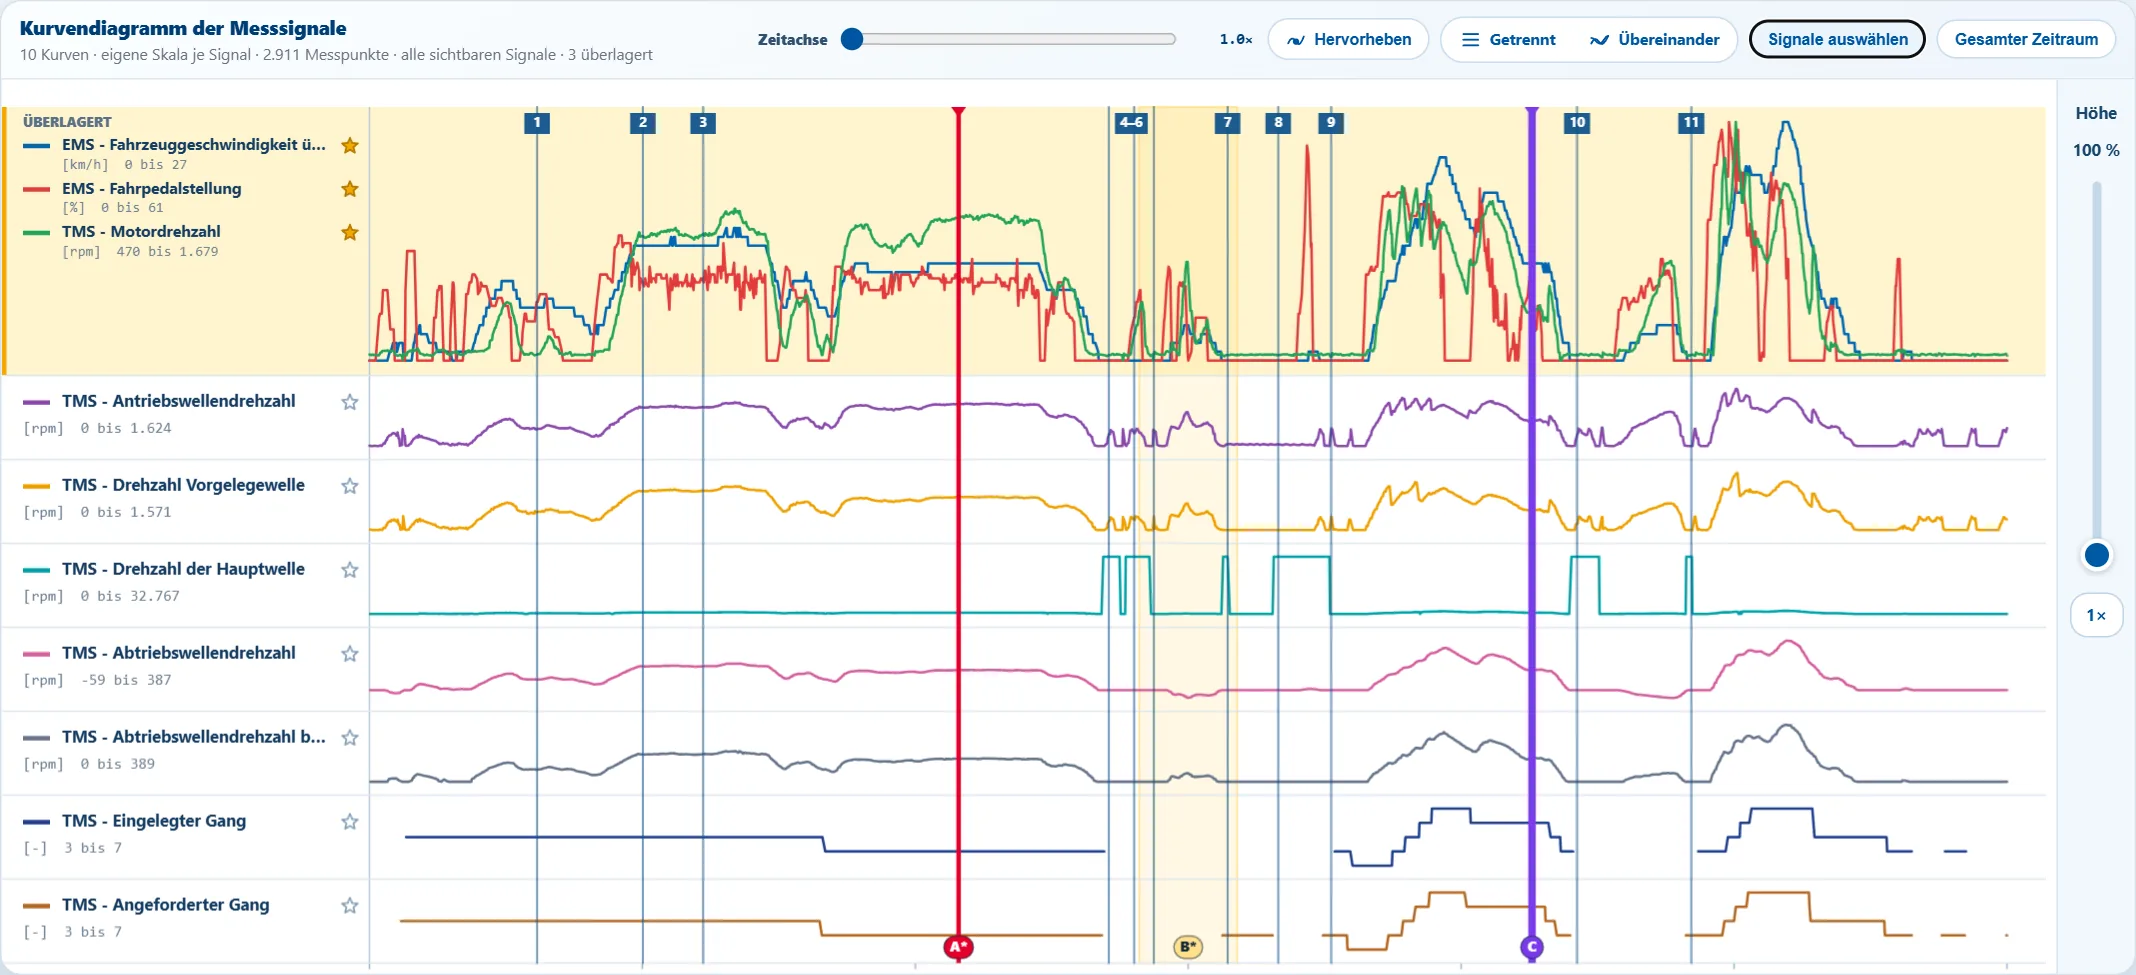
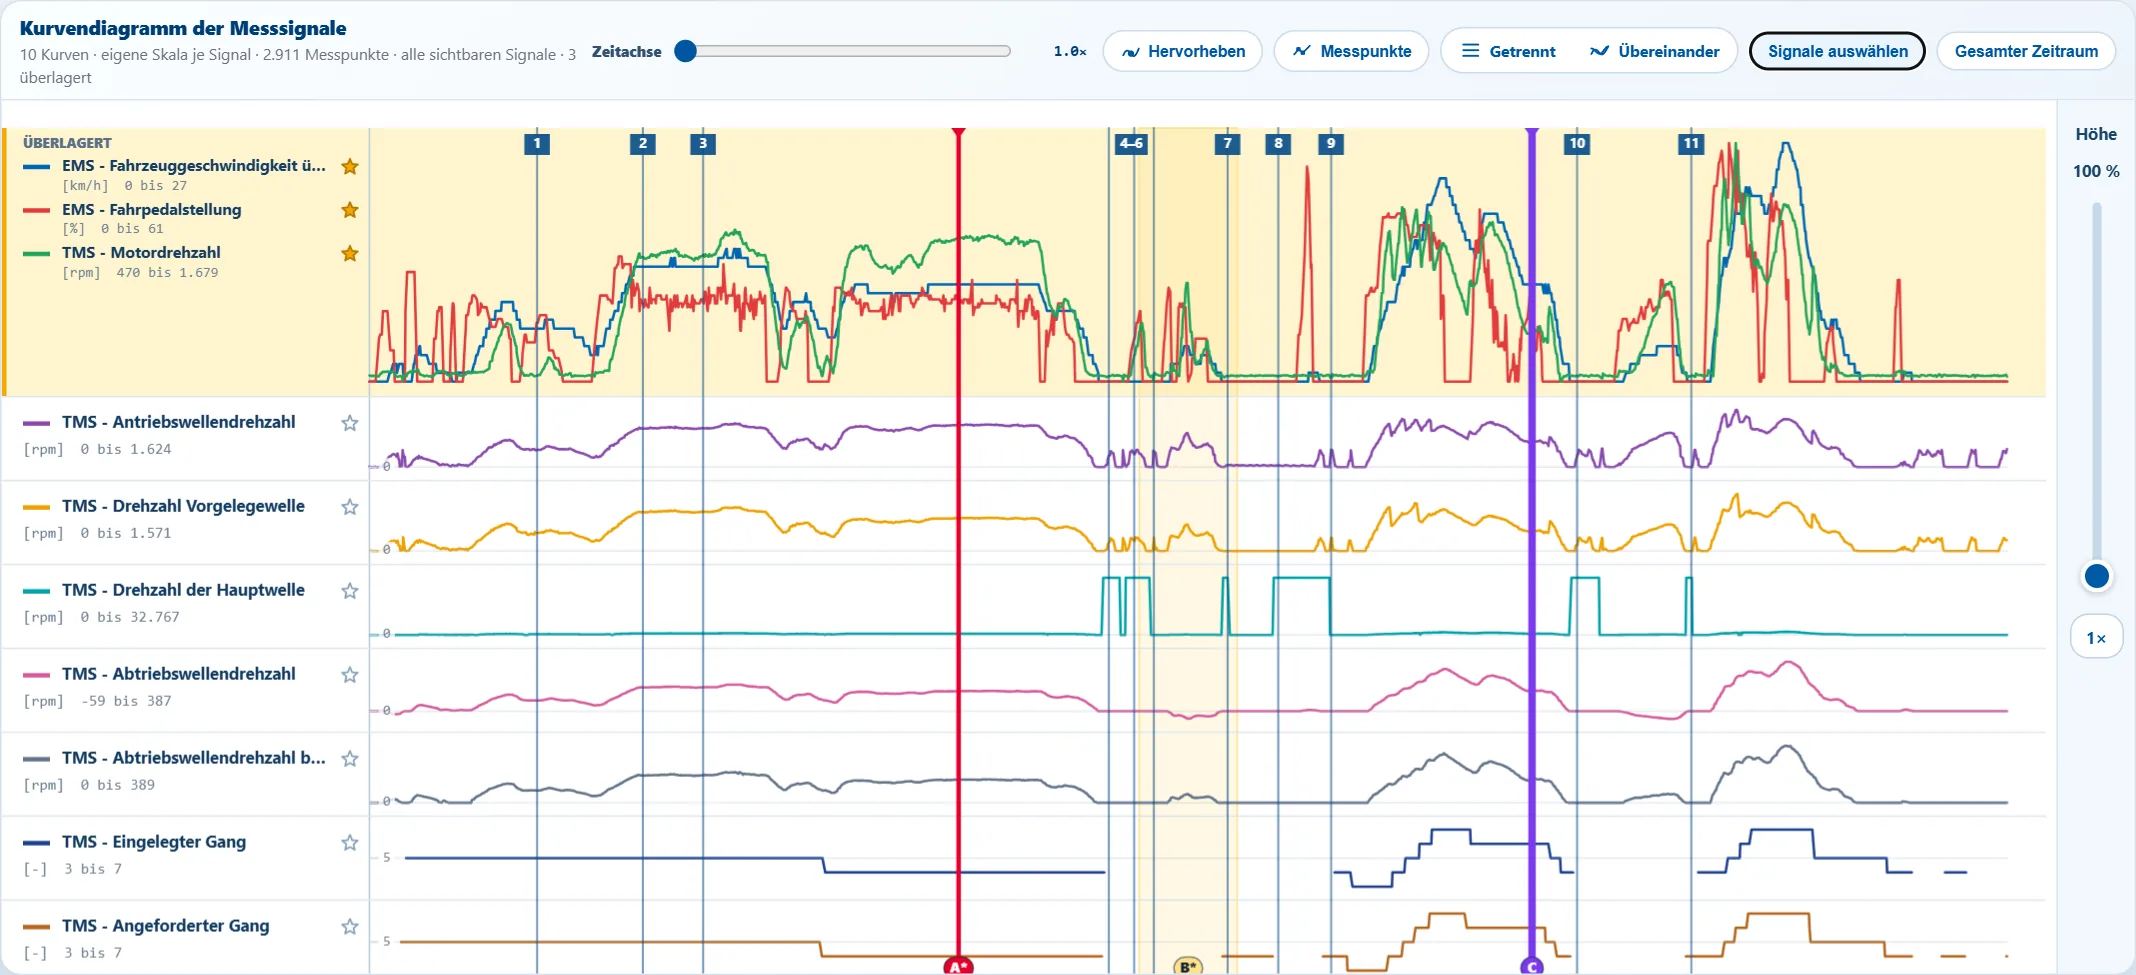
Handbook: own sections with screenshots for status signals, value scale & samples and the SWS note
Screenshot generator also renders the SWS examples (status, points, SWS note)
from a gitignored SWS sample under a neutral file name.

diff --git a/handbuch.html b/handbuch.html
@@ -144,6 +144,9 @@ kbd{display:inline-block;min-width:22px;padding:2px 7px;border:1px solid #b8cde0
       <div class="hb-new">
         <h2><span data-lang="de">Neu in dieser Version</span><span data-lang="en">New in this version</span></h2>
         <ul data-lang="de">
+          <li><strong>Alle Signale im Diagramm:</strong> auch Statussignale wie Gang aktiv, Antriebsstatus oder Regelstrategie (BEV³) als Stufenkurve.</li>
+          <li><strong>Feinere Skala</strong> mit Hilfslinien an jeder Spur und Knopf <strong>Messpunkte</strong> für die echten Messwerte.</li>
+          <li><strong>SWS-Hinweis:</strong> zeigt bei SWS-Dateien, wie oft je Signal wirklich ein neuer Wert kam.</li>
           <li><strong>Hervorheben:</strong> per Knopf eine Kurve betonen und die übrigen blass zeigen – ideal bei vielen überlagerten Kurven.</li>
           <li><strong>Messen mit zwei Cursorn:</strong> Δt und die Werte aller Kurven an A und B mit Differenz, auf Wunsch als Notiz gespeichert.</li>
           <li><strong>Soll/Ist-Paare:</strong> werden automatisch erkannt, in einer eigenen Spur gezeigt und Abweichungen rot markiert und aufgelistet.</li>
@@ -156,6 +159,9 @@ kbd{display:inline-block;min-width:22px;padding:2px 7px;border:1px solid #b8cde0
           <li><strong>Neuer PDF-Bericht</strong> mit großem, unverzerrtem Kurvendiagramm, Detailseiten und Messwerten an jedem Erfassungsmarker; Excel mit Diagramm, Marker- und Statistikblatt.</li>
         </ul>
         <ul data-lang="en">
+          <li><strong>Every signal in the chart:</strong> status signals such as gear active, drive state or control strategy (BEV³) as step curves.</li>
+          <li><strong>Finer scale</strong> with grid lines on every lane and a <strong>Samples</strong> button for the real measured values.</li>
+          <li><strong>SWS note:</strong> shows for SWS files how often each signal really got a new value.</li>
           <li><strong>Highlight:</strong> emphasise one curve with a button and fade the others – ideal with many overlaid curves.</li>
           <li><strong>Measure with two cursors:</strong> Δt and the values of all curves at A and B with the difference, optionally saved as a note.</li>
           <li><strong>Setpoint/actual pairs:</strong> detected automatically, shown in their own lane, deviations marked red and listed.</li>
@@ -220,14 +226,49 @@ kbd{display:inline-block;min-width:22px;padding:2px 7px;border:1px solid #b8cde0
         <p>Jedes Signal hat eine eigene Spur mit eigener Skala; Minimum und Maximum stehen links neben der Spur. Die Zeitachse entspricht der echten Messzeit, kurze Spitzen bleiben auch bei großen Dateien sichtbar.</p>
         <h3>Bedienung</h3>
         <ul><li><strong>Zeitachse:</strong> Regler oben oder Mausrad (zoomt am Mauszeiger).</li><li><strong>Verschieben:</strong> im Werkzeug „Navigieren“ ziehen oder Umschalt + Mausrad.</li><li><strong>Höhe (Y-Achse):</strong> Regler rechts ziehen, Mausrad über dem Regler oder Strg + Mausrad im Diagramm. Über den Signalnamen scrollt das Mausrad ein vergrößertes Diagramm hoch und runter.</li><li><strong>Werteanzeige:</strong> das dunkle Infofenster zeigt Zeit und alle Werte an der Mausposition, dazu Marker und Notizen. Ist es im Weg, machst du es mit <kbd>T</kbd> + Mausrad durchsichtiger (Touchpad: <kbd>T</kbd> + Zwei-Finger-Scrollen).</li><li><strong>Gesamter Zeitraum:</strong> setzt Zoom und Verschiebung zurück.</li></ul>
-        <p class="note">Das Diagramm zeigt alle sichtbaren Signale, egal wie viele erfasst wurden – auch <strong>Statussignale</strong> mit Textwerten wie „Aktiv“ / „Nicht aktiv“, „Bereit“ oder „Elektroantrieb“. Sie erscheinen als Stufenkurve: Jeder Zustand ist eine Stufe, die Zustandsnamen stehen am linken Rand der Spur, und die Werteanzeige zeigt den Text. Zahlensignale haben links eine <strong>Werteskala mit feinen Hilfslinien</strong> (höhere Spuren = feinere Skala); mit dem Knopf <strong>Messpunkte</strong> (standardmäßig aus) erscheint beim Hineinzoomen jeder Messwert als Punkt. Bei Dateien aus SWS erscheint oben der <strong>SWS-Hinweis</strong>: SWS liest die Signale nacheinander, je mehr Signale, desto seltener kommt pro Signal ein neuer Wert. Der Hinweis zeigt, wie oft in der Datei tatsächlich neue Werte kamen. Jede Spur behält eine gut lesbare Mindesthöhe; passen nicht alle auf den Bildschirm, erreichst du die weiteren Spuren über die <strong>Scrollleiste rechts</strong> oder das Mausrad über den Signalnamen. Über die Haken in „Signale auswählen“ blendest du einzelne Kurven aus. Der <strong>Stern neben dem Signalnamen</strong> hebt ein Signal gelb hervor, genau wie der Stern in der Tabelle.</p>
+        <p class="note">Das Diagramm zeigt alle sichtbaren Signale, egal wie viele erfasst wurden – auch Statussignale (siehe unten). Jede Spur behält eine gut lesbare Mindesthöhe; passen nicht alle auf den Bildschirm, erreichst du die weiteren Spuren über die <strong>Scrollleiste rechts</strong> oder das Mausrad über den Signalnamen. Über die Haken in „Signale auswählen“ blendest du einzelne Kurven aus. Der <strong>Stern neben dem Signalnamen</strong> hebt ein Signal gelb hervor, genau wie der Stern in der Tabelle.</p>
       </div>
       <div data-lang="en">
         <p>Every signal has its own lane and scale; minimum and maximum are shown left of the lane. The time axis follows the real measurement time, short peaks stay visible even in large files.</p>
         <h3>Controls</h3>
         <ul><li><strong>Time axis:</strong> slider at the top or mouse wheel (zooms at the cursor).</li><li><strong>Pan:</strong> drag with the "Navigate" tool or Shift + wheel.</li><li><strong>Height (Y axis):</strong> drag the slider on the right, use the wheel over the slider or Ctrl + wheel in the chart. Over the signal names the wheel scrolls an enlarged chart up and down.</li><li><strong>Value tooltip:</strong> the dark info box shows time and all values at the mouse position plus markers and notes. If it is in the way, make it more transparent with <kbd>T</kbd> + wheel (touchpad: <kbd>T</kbd> + two-finger scroll).</li><li><strong>Full time range:</strong> resets zoom and pan.</li></ul>
-        <p class="note">The chart shows all visible signals, however many were captured – including <strong>status signals</strong> with text values such as "Active" / "Not active", "Ready" or "Electric drive". They appear as step curves: each state is one step, the state names are shown on the left edge of the lane, and the value tooltip shows the text. Numeric signals have a <strong>value scale with fine grid lines</strong> on the left (taller lanes = finer scale); with the <strong>Samples</strong> button (off by default), every measured value is shown as a dot when zoomed in. For files from SWS, the <strong>SWS note</strong> appears at the top: SWS reads the signals one after another, so the more signals, the less often each signal gets a new value. The note shows how often new values really arrived in the file. Every lane keeps a readable minimum height; if they do not all fit on the screen, reach further lanes with the <strong>scrollbar on the right</strong> or the mouse wheel over the signal names. Untick single curves in "Choose signals" to hide them. The <strong>star next to the signal name</strong> highlights a signal in yellow, just like the star in the table.</p>
+        <p class="note">The chart shows all visible signals, however many were captured – including status signals (see below). Every lane keeps a readable minimum height; if they do not all fit on the screen, reach further lanes with the <strong>scrollbar on the right</strong> or the mouse wheel over the signal names. Untick single curves in "Choose signals" to hide them. The <strong>star next to the signal name</strong> highlights a signal in yellow, just like the star in the table.</p>
       </div>
+      <h3 id="status-signals"><span data-lang="de">Statussignale</span><span data-lang="en">Status signals</span></h3>
+      <div data-lang="de">
+        <p>Signale mit Textwerten statt Zahlen – z. B. „Gang 1 im Getriebe“ (Aktiv / Nicht aktiv), „Antriebsstatus“ (Bereit / Nicht bereit) oder „Aktuelle Regelstrategie“ beim BEV³ – erscheinen als <strong>Stufenkurve</strong> in einer eigenen Spur.</p>
+        <ul><li>Jeder Zustand ist eine Stufe; die <strong>Zustandsnamen stehen am linken Rand</strong> der Spur.</li><li>Bekannte Zustände stehen in derselben Reihenfolge wie im SWS-Kurvendiagramm; kurze Zustandslisten werden wie in SWS vollständig gezeigt.</li><li>Werteanzeige, „Messen“ (A/B mit „geändert“), PDF und Excel zeigen den Zustand als Text.</li><li>In „Signale auswählen“ tragen Statussignale den Hinweis „Status“.</li></ul>
+      </div>
+      <div data-lang="en">
+        <p>Signals with text values instead of numbers – e.g. "Gang 1 im Getriebe" (active / not active), "Antriebsstatus" (ready / not ready) or "Aktuelle Regelstrategie" on the BEV³ – appear as a <strong>step curve</strong> in their own lane.</p>
+        <ul><li>Each state is one step; the <strong>state names are shown on the left edge</strong> of the lane.</li><li>Known states keep the same order as in the SWS curve view; short state lists are shown completely, like in SWS.</li><li>Value tooltip, "Measure" (A/B with "changed"), PDF and Excel show the state as text.</li><li>In "Choose signals" status signals are labelled "State".</li></ul>
+      </div>
+      <figure><a href="handbuch/de-status.webp" data-lang="de" target="_blank"><img src="handbuch/de-status.webp" alt="Statussignale als Stufenkurven" loading="lazy"></a><a href="handbuch/en-status.webp" data-lang="en" target="_blank"><img src="handbuch/en-status.webp" alt="Status signals as step curves" loading="lazy"></a>
+        <figcaption><span data-lang="de">Statussignale (Gang 1/2, Antriebsstatus, Regelstrategie) zusammen mit Soll-Gang und Schaltmuffe.</span><span data-lang="en">Status signals (gear 1/2, drive state, control strategy) together with target gear and shift sleeve.</span></figcaption></figure>
+      <h3 id="samples"><span data-lang="de">Werteskala &amp; Messpunkte</span><span data-lang="en">Value scale &amp; samples</span></h3>
+      <div data-lang="de">
+        <p>Jede Zahlenspur hat links eine <strong>Werteskala mit feinen Hilfslinien</strong>. Je höher die Spuren (Regler „Höhe“), desto feiner die Skala – so lässt sich z. B. ablesen, dass eine Schaltmuffe bei 16,6 mm stehen bleibt.</p>
+        <p>Der Knopf <strong>Messpunkte</strong> im Diagrammkopf (standardmäßig aus) zeigt beim Hineinzoomen jeden echten Messwert als Punkt. So erkennst du, wo wirklich gemessen wurde und wo die Linie nur zwei Messwerte verbindet – wichtig bei SWS-Dateien, in denen Werte oft nur alle paar Sekunden neu kommen.</p>
+      </div>
+      <div data-lang="en">
+        <p>Every numeric lane has a <strong>value scale with fine grid lines</strong> on the left. The taller the lanes ("Height" slider), the finer the scale – for example you can read that a shift sleeve stops at 16.6 mm.</p>
+        <p>The <strong>Samples</strong> button in the chart header (off by default) shows every real measured value as a dot when zoomed in. You can see where values were really measured and where the line only connects two values – important for SWS files, where values often only arrive every few seconds.</p>
+      </div>
+      <figure><a href="handbuch/de-points.webp" data-lang="de" target="_blank"><img src="handbuch/de-points.webp" alt="Werteskala und Messpunkte" loading="lazy"></a><a href="handbuch/en-points.webp" data-lang="en" target="_blank"><img src="handbuch/en-points.webp" alt="Value scale and sample dots" loading="lazy"></a>
+        <figcaption><span data-lang="de">Hineingezoomt mit Messpunkten: Soll-Gang 2 ist angefordert, die Muffe bleibt bei 16,6 mm stehen.</span><span data-lang="en">Zoomed in with samples: target gear 2 is requested, the sleeve stops at 16.6 mm.</span></figcaption></figure>
+      <h3 id="sws-note"><span data-lang="de">SWS-Hinweis</span><span data-lang="en">SWS note</span></h3>
+      <div data-lang="de">
+        <p>Bei Dateien aus dem <strong>SWS-Signallogger</strong> erscheint in der Ansichtsleiste der Knopf <strong>SWS-Hinweis</strong> (gelb, wenn die Werte seltener als etwa alle 1,5 s kommen). Er erklärt:</p>
+        <ul><li>SWS speichert eine Zeile pro Sekunde und liest die gewählten Signale <strong>nacheinander</strong>. Je mehr Signale ausgewählt sind, desto seltener kommt pro Signal ein neuer Wert – mit ca. 20 Signalen etwa alle 4 s, mit ca. 6 Signalen etwa jede Sekunde.</li><li>Für die geladene Datei steht dort, wie viele Signale es sind und wie oft tatsächlich neue Werte kamen.</li><li>Kurze Vorgänge wie Schaltvorgänge oder Druckeinbrüche können dadurch in der Aufzeichnung fehlen. Für schnelle Vorgänge nur wenige Signale aufzeichnen.</li><li><strong>Messpunkte einschalten</strong> springt ins Kurvendiagramm und zeigt die echten Messwerte.</li></ul>
+        <p class="note">SDP3-Dateien sind davon nicht betroffen (dort ca. alle 0,1 s). Sobald Scania die Abtastrate in SWS einstellbar macht, wird das Tool entsprechend weiterentwickelt.</p>
+      </div>
+      <div data-lang="en">
+        <p>For files from the <strong>SWS signal logger</strong> the view bar shows the <strong>SWS note</strong> button (amber when values arrive less often than about every 1.5 s). It explains:</p>
+        <ul><li>SWS stores one row per second and reads the chosen signals <strong>one after another</strong>. The more signals are chosen, the less often each signal gets a new value – about every 4 s with about 20 signals, about every second with about 6 signals.</li><li>For the loaded file it shows how many signals there are and how often new values really arrived.</li><li>Short events such as gear shifts or pressure drops can therefore be missing from the recording. Record only a few signals for fast events.</li><li><strong>Switch samples on</strong> jumps to the curve chart and shows the real measured values.</li></ul>
+        <p class="note">SDP3 files are not affected (about every 0.1 s there). As soon as Scania makes the sample rate adjustable in SWS, the tool will be developed further accordingly.</p>
+      </div>
+      <figure><a href="handbuch/de-sws-note.webp" data-lang="de" target="_blank"><img src="handbuch/de-sws-note.webp" alt="SWS-Hinweis mit gemessener Abtastrate" loading="lazy"></a><a href="handbuch/en-sws-note.webp" data-lang="en" target="_blank"><img src="handbuch/en-sws-note.webp" alt="SWS note with measured sample rate" loading="lazy"></a>
+        <figcaption><span data-lang="de">SWS-Hinweis: 19 Signale – neuer Wert je Signal ca. alle 4 s.</span><span data-lang="en">SWS note: 19 signals – new value per signal about every 4 s.</span></figcaption></figure>
     </section>
 
     <section class="chapter" id="signals">
